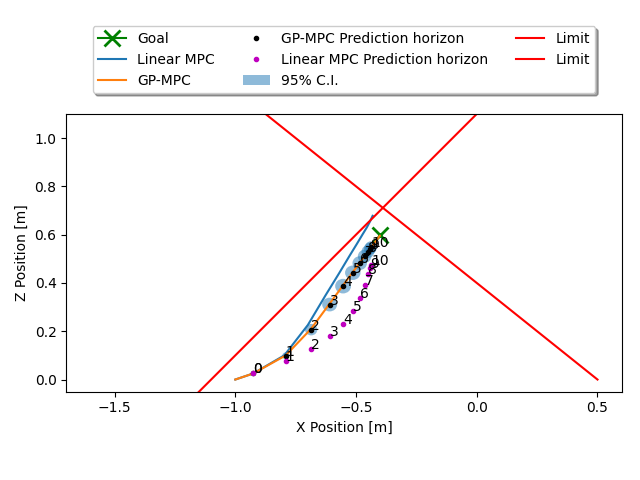
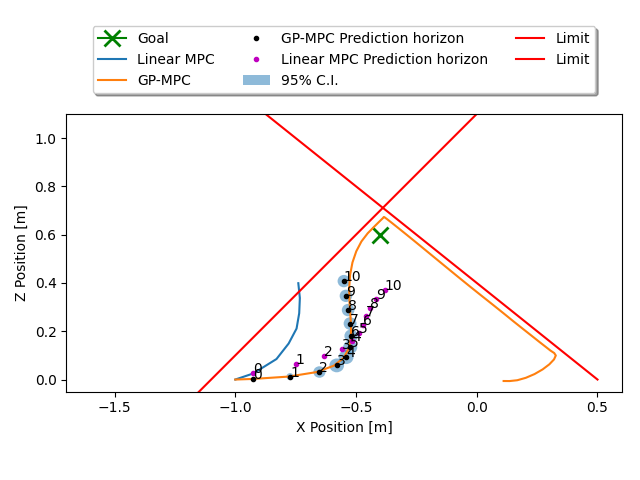
tracking seems to work now. Need to design a good trajectory next

diff --git a/safe_control_gym/controllers/mpc/mpc.py b/safe_control_gym/controllers/mpc/mpc.py
@@ -292,7 +292,8 @@ class MPC(BaseController):
             env=None,
             render=False,
             logging=False,
-            max_steps=100
+            max_steps=100,
+            gp_training = False
             ):
         """Runs evaluation with current policy.
         
@@ -316,13 +317,15 @@ class MPC(BaseController):
         self.reset_results_dict()
         self.results_dict['obs'].append(obs)
         i = 0
-        if self.env.TASK == Task.STABILIZATION:
+        if self.env.TASK == Task.STABILIZATION or gp_training:
             MAX_STEPS = max_steps
+        # TODO: This line below is problematic as it does not provide the right matrix size of GP to work.
         elif self.env.TASK == Task.TRAJ_TRACKING:
             MAX_STEPS = self.traj.shape[1]
         else:
             raise("Undefined Task")
         self.terminate_loop = False
+        # TODO: This line below can be problematic as X_GOAL is an array now instead of one point.
         while np.linalg.norm(obs - env.X_GOAL) > 1e-3 and i < MAX_STEPS and not(self.terminate_loop):
             action = self.select_action(obs)
             if self.terminate_loop:
@@ -361,4 +364,6 @@ class MPC(BaseController):
         except ValueError:
             raise Exception("[ERROR] mpc.run().py: MPC could not find a solution for the first step given the initial conditions. "
                   "Check to make sure initial conditions are feasible.")
+        if self.results_dict['obs'].shape[0] != 2:
+            print("################################################ SOMETHING IS WRONG!!!!!!!!!!!!!!!!!!!!!!!!!!!!!!!!!!!!!!!!!")
         return deepcopy(self.results_dict)

diff --git a/safe_control_gym/envs/gym_pybullet_drones/hexarotor.py b/safe_control_gym/envs/gym_pybullet_drones/hexarotor.py
@@ -701,12 +701,13 @@ class Hexarotor2D(BenchmarkEnv):
                 #                                      Q=self.Q,
                 #                                      R=self.R)["l"])
             if self.TASK == Task.TRAJ_TRACKING:
-                return float(-1 * self.symbolic.loss(x=self.state,
-                                                     Xr=self.X_GOAL[self.ctrl_step_counter,:],
-                                                     u=self.current_preprocessed_action,
-                                                     Ur=self.U_GOAL,
-                                                     Q=self.Q,
-                                                     R=self.R)["l"])
+                return 0.
+                # float(-1 * self.symbolic.loss(x=self.state,
+                #                                      Xr=self.X_GOAL[self.ctrl_step_counter,:],
+                #                                      u=self.current_preprocessed_action,
+                #                                      Ur=self.U_GOAL,
+                #                                      Q=self.Q,
+                #                                      R=self.R)["l"])
 
     def _get_done(self):
         """Computes the conditions for termination of an episode.

diff --git a/safe_control_gym/controllers/mpc/gp_mpc_hexa.py b/safe_control_gym/controllers/mpc/gp_mpc_hexa.py
@@ -568,7 +568,7 @@ class GPMPC(MPC):
                 init_state = init_state_samples[i,:]
                 # Collect data with prior controller.
                 run_env = self.env_func(init_state=init_state, randomized_init=False, seed=int(seeds[i]))
-                episode_results = self.prior_ctrl.run(env=run_env, max_steps=1)
+                episode_results = self.prior_ctrl.run(env=run_env, max_steps=1, gp_training = True)
                 run_env.close()
                 x_obs = episode_results['obs'][-3:,:]
                 u_seq = episode_results['action'][-1:,:]

diff --git a/safe_control_gym/envs/benchmark_env.py b/safe_control_gym/envs/benchmark_env.py
@@ -58,7 +58,7 @@ class BenchmarkEnv(gym.Env):
                  verbose: bool = False,
                  normalized_rl_action_space: bool = False,
                  # Task.
-                 task: Task = Task.STABILIZATION,
+                 task: Task = Task.TRAJ_TRACKING,#Task.STABILIZATION,
                  task_info=None,
                  cost: Cost = Cost.RL_REWARD,
                  pyb_freq: int = 50,
